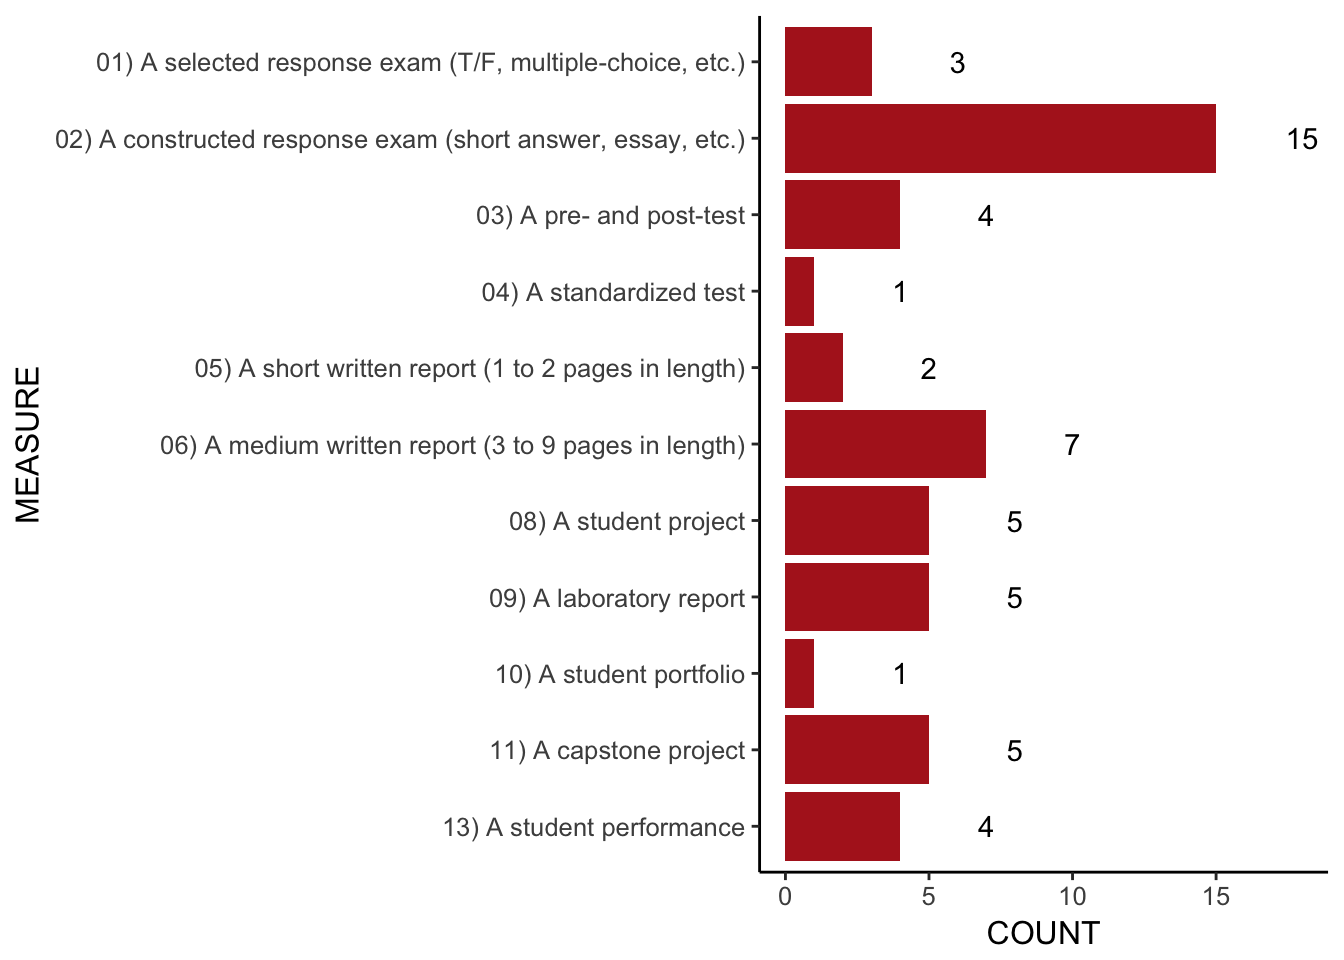
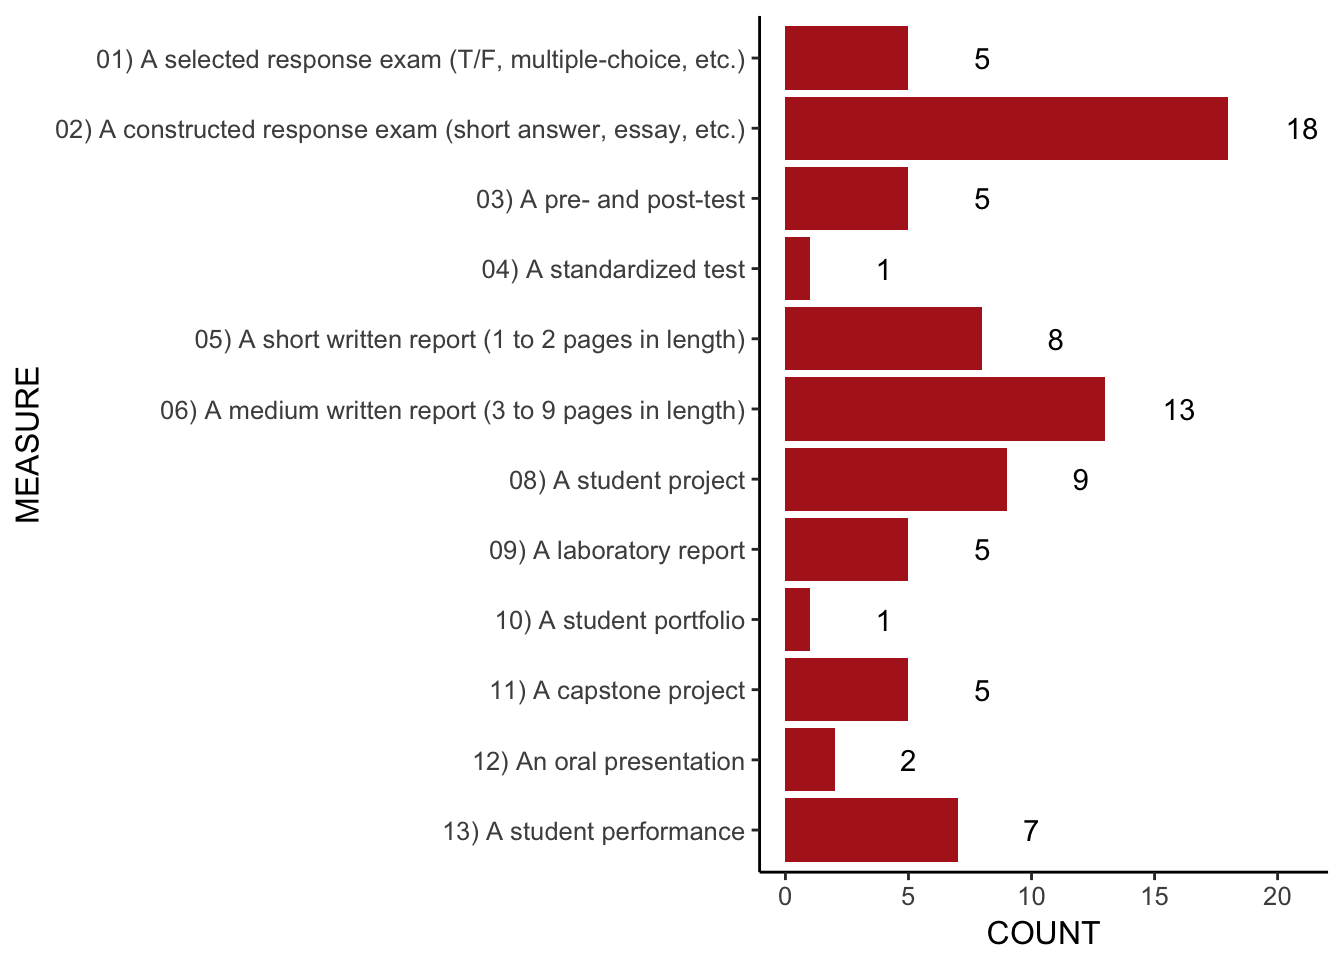
New build, set split-by to none

diff --git a/docs/Report-1801.html b/docs/Report-1801.html
@@ -32,8 +32,8 @@
   <meta name="apple-mobile-web-app-status-bar-style" content="black">
   
   
-<link rel="prev" href="introduction.html">
-<link rel="next" href="results.html">
+
+
 <script src="libs/jquery-2.2.3/jquery.min.js"></script>
 <link href="libs/gitbook-2.6.7/css/style.css" rel="stylesheet" />
 <link href="libs/gitbook-2.6.7/css/plugin-bookdown.css" rel="stylesheet" />
@@ -66,20 +66,20 @@
 <li><a href="http://www.ferris.edu/HTMLS/academics/general-education/evidence/repository.htm" target="blank"><img src="art/logo2.png" align="center" hspace="15" vspace="5"/></a></li>
 
 <li class="divider"></li>
-<li class="chapter" data-level="" data-path="index.html"><a href="index.html"><i class="fa fa-check"></i>Abstract</a></li>
-<li class="chapter" data-level="" data-path="introduction.html"><a href="introduction.html"><i class="fa fa-check"></i>Introduction</a></li>
-<li class="chapter" data-level="" data-path="methods.html"><a href="methods.html"><i class="fa fa-check"></i>Methods</a><ul>
-<li class="chapter" data-level="" data-path="methods.html"><a href="methods.html#data-provenance"><i class="fa fa-check"></i>Data provenance</a><ul>
-<li class="chapter" data-level="" data-path="methods.html"><a href="methods.html#location-of-public-website-files"><i class="fa fa-check"></i>Location of public website files</a></li>
-<li class="chapter" data-level="" data-path="methods.html"><a href="methods.html#session-information"><i class="fa fa-check"></i>Session information</a></li>
-<li class="chapter" data-level="" data-path="methods.html"><a href="methods.html#processing-instructions"><i class="fa fa-check"></i>Processing instructions</a></li>
-<li class="chapter" data-level="" data-path="methods.html"><a href="methods.html#citation-of-this-work"><i class="fa fa-check"></i>Citation of this work</a></li>
+<li class="chapter" data-level="" data-path=""><a href="#abstract"><i class="fa fa-check"></i>Abstract</a></li>
+<li class="chapter" data-level="" data-path=""><a href="#introduction"><i class="fa fa-check"></i>Introduction</a></li>
+<li class="chapter" data-level="" data-path=""><a href="#methods"><i class="fa fa-check"></i>Methods</a><ul>
+<li class="chapter" data-level="" data-path=""><a href="#data-provenance"><i class="fa fa-check"></i>Data provenance</a><ul>
+<li class="chapter" data-level="" data-path=""><a href="#location-of-public-website-files"><i class="fa fa-check"></i>Location of public website files</a></li>
+<li class="chapter" data-level="" data-path=""><a href="#session-information"><i class="fa fa-check"></i>Session information</a></li>
+<li class="chapter" data-level="" data-path=""><a href="#processing-instructions"><i class="fa fa-check"></i>Processing instructions</a></li>
+<li class="chapter" data-level="" data-path=""><a href="#citation-of-this-work"><i class="fa fa-check"></i>Citation of this work</a></li>
 </ul></li>
-<li class="chapter" data-level="" data-path="methods.html"><a href="methods.html#googlesheets"><i class="fa fa-check"></i>Retrieving the registration data</a></li>
-<li class="chapter" data-level="" data-path="methods.html"><a href="methods.html#data"><i class="fa fa-check"></i>Data collection</a></li>
+<li class="chapter" data-level="" data-path=""><a href="#googlesheets"><i class="fa fa-check"></i>Retrieving the registration data</a></li>
+<li class="chapter" data-level="" data-path=""><a href="#data"><i class="fa fa-check"></i>Data collection</a></li>
 </ul></li>
-<li class="chapter" data-level="" data-path="results.html"><a href="results.html"><i class="fa fa-check"></i>Results and Discussion</a></li>
-<li class="chapter" data-level="" data-path="references.html"><a href="references.html"><i class="fa fa-check"></i>References</a></li>
+<li class="chapter" data-level="" data-path=""><a href="#results"><i class="fa fa-check"></i>Results and Discussion</a></li>
+<li class="chapter" data-level="" data-path=""><a href="#references"><i class="fa fa-check"></i>References</a></li>
 <li class="divider"></li>
 <li><a href="https://bookdown.org/yihui/bookdown/" target="blank">Published with bookdown</a></li>
 
@@ -100,18 +100,36 @@
           <div class="page-inner">
 
             <section class="normal" id="section-">
+<div id="header">
+<h1 class="title">General Education Course Registrations<a href="#fn1" class="footnoteRef" id="fnref1"><sup>1</sup></a></h1>
+<h3 class="subtitle"><em>An Overview of Registration Patterns for Spring 2018</em></h3>
+<h4 class="author"><em>Dr. Clifton Franklund</em></h4>
+<h4 class="author"><em>General Education Coordinator</em></h4>
+<h4 class="date"><em>Spring 2018</em></h4>
+</div>
+<p>    </p>
+<div id="abstract" class="section level1 unnumbered">
+<h1>Abstract</h1>
+<blockquote>
+<p>“Assessment is not a spreadsheet; it’s a conversation.” — Irmeli Halinen</p>
+</blockquote>
+<p>Lorem ipsum dolor sit amet, consectetur adipiscing elit. Curabitur pellentesque tortor ac turpis congue venenatis. Curabitur congue justo est, non feugiat massa euismod sit amet. Fusce tincidunt, sapien in malesuada tempus, sem mi interdum turpis, in finibus sem nisl sed ex. Mauris in tristique nisl. Nunc pellentesque metus et velit aliquam, eu rhoncus diam condimentum. Quisque nec libero at odio tempor aliquam. Fusce at lacus porttitor, lobortis nisl nec, commodo tellus. Phasellus interdum sapien varius ipsum consectetur tincidunt. Aenean posuere turpis at efficitur lobortis. Lorem ipsum dolor sit amet, consectetur adipiscing elit. Curabitur pellentesque tortor ac turpis congue venenatis. Curabitur congue justo est, non feugiat massa euismod sit amet. Fusce tincidunt, sapien in malesuada tempus, sem mi interdum turpis, in finibus sem nisl sed ex. Mauris in tristique nisl. Nunc pellentesque metus et velit aliquam, eu rhoncus diam condimentum. Quisque nec libero at odio tempor aliquam. Fusce at lacus porttitor, lobortis nisl nec, commodo tellus. Phasellus interdum sapien varius ipsum consectetur tincidunt. Aenean posuere turpis at efficitur lobortis.</p>
+</div>
+<div id="introduction" class="section level1 unnumbered">
+<h1>Introduction</h1>
+</div>
 <div id="methods" class="section level1 unnumbered">
 <h1>Methods</h1>
 <div id="data-provenance" class="section level2 unnumbered">
 <h2>Data provenance</h2>
-<p>Data provenance refers to a system that permits tracking of the origin, movement, modification, and utilization of data sets <span class="citation">(Buneman, Khanna, and Wang-Chiew <a href="references.html#ref-Buneman2001">2001</a>)</span>. The provenance of General Education data will be explicitly declared to facilitate the reproducibility and extensibility of these studies.</p>
+<p>Data provenance refers to a system that permits tracking of the origin, movement, modification, and utilization of data sets <span class="citation">(Buneman, Khanna, and Wang-Chiew <a href="#ref-Buneman2001">2001</a>)</span>. The provenance of General Education data will be explicitly declared to facilitate the reproducibility and extensibility of these studies.</p>
 <div id="location-of-public-website-files" class="section level3 unnumbered">
 <h3>Location of public website files</h3>
-<p>All files related to this report can be found online at the Open Science Framework <span class="citation">(Nosek <a href="references.html#ref-Nosek2012">2012</a>)</span>. This site contains all of the files needed to reproduce this report from the de-identified data set. The site’s url is <a href="https://osf.io/t6u8m/" class="uri">https://osf.io/t6u8m/</a>.</p>
+<p>All files related to this report can be found online at the Open Science Framework <span class="citation">(Nosek <a href="#ref-Nosek2012">2012</a>)</span>. This site contains all of the files needed to reproduce this report from the de-identified data set. The site’s url is <a href="https://osf.io/t6u8m/" class="uri">https://osf.io/t6u8m/</a>.</p>
 </div>
 <div id="session-information" class="section level3 unnumbered">
 <h3>Session information</h3>
-<p>This report was written using RStudio <span class="citation">(RStudio Team <a href="references.html#ref-Rstudio">2015</a>)</span> and the R statistical programming language <span class="citation">(R Core Team <a href="references.html#ref-R">2013</a>)</span>. These products are free to download for PC, Macintosh, and Linux operating systems. The following information pertains to the session parameters used to generate this report. If you have trouble reproducing this report, it may be due to different session parameters. You may contact <a href="mailto:CliftonFranklund@ferris.edu">Dr. Franklund</a> if you need assistance.</p>
+<p>This report was written using RStudio <span class="citation">(RStudio Team <a href="#ref-Rstudio">2015</a>)</span> and the R statistical programming language <span class="citation">(R Core Team <a href="#ref-R">2013</a>)</span>. These products are free to download for PC, Macintosh, and Linux operating systems. The following information pertains to the session parameters used to generate this report. If you have trouble reproducing this report, it may be due to different session parameters. You may contact <a href="mailto:CliftonFranklund@ferris.edu">Dr. Franklund</a> if you need assistance.</p>
 <p><strong>R version 3.4.3 (2017-11-30)</strong></p>
 <p>**<a href="Platform:**" class="uri">Platform:**</a> x86_64-apple-darwin15.6.0 (64-bit)</p>
 <p><strong>locale:</strong> en_US.UTF-8||en_US.UTF-8||en_US.UTF-8||C||en_US.UTF-8||en_US.UTF-8</p>
@@ -143,6 +161,59 @@
 <p>All registration records for the fall of 2017 were collated and de-identified. The data file, ‘registrations.csv’, contains only the course name (e.g. BIOL 101), the core competency (e.g. Natural Sciences), and the standardized measure (e.g. Selected Response Exam). The datafile is <a href="data/registrations.csv">available here</a>.</p>
 </div>
 </div>
+<div id="results" class="section level1 unnumbered">
+<h1>Results and Discussion</h1>
+<p>A total of 79 registrations have been completed as of March 14, 2018. This includes a total of 63 different courses. The distribution of the registrations between the eight core competencies is shown in figure <a href="#fig:plotByCompetency">1</a>.</p>
+<div class="figure"><span id="fig:plotByCompetency"></span>
+<img src="Report-1801_files/figure-html/plotByCompetency-1.png" alt="Distribution of course registrations by core competency." width="672" />
+<p class="caption">
+Figure 1: Distribution of course registrations by core competency.
+</p>
+</div>
+<ul>
+<li>A total of 29 exams were registered (36.7%).<br />
+</li>
+<li>A total of 41 student products were registered (51.9%).<br />
+</li>
+<li>A total of 9 student performances were registered (11.4%).</li>
+</ul>
+<div class="figure"><span id="fig:plotByMeasure"></span>
+<img src="Report-1801_files/figure-html/plotByMeasure-1.png" alt="Distribution of course registrations by standardized measure." width="672" />
+<p class="caption">
+Figure 2: Distribution of course registrations by standardized measure.
+</p>
+</div>
+<div class="question">
+<p>
+Do you think that there are too many exams in this mix? What is the desired balance between exams, products, and performances for General Education?
+</p>
+</div>
+
+</div>
+<div id="references" class="section level1 unnumbered">
+<h1>References</h1>
+
+<div id="refs" class="references">
+<div id="ref-Buneman2001">
+<p>Buneman, Peter, Sanjeev Khanna, and Tan Wang-Chiew. 2001. “Why and Where: A Characterization of Data Provenance.” In <em>Database Theory — Icdt 2001 8th Int. Conf. London, Uk, January 4–6, 2001 Proc.</em>, edited by Jan den Bussche and Victor Vianu, 316–30. Berlin, Heidelberg: Springer Berlin Heidelberg. doi:<a href="https://doi.org/10.1007/3-540-44503-X_20">10.1007/3-540-44503-X_20</a>.</p>
+</div>
+<div id="ref-Nosek2012">
+<p>Nosek, Brian. 2012. “An Open, Large-Scale, Collaborative Effort to Estimate the Reproducibility of Psychological Science.” <em>Perspect. Psychol. Sci.</em> 7 (6). SAGE Publications: 657–60. doi:<a href="https://doi.org/10.1177/1745691612462588">10.1177/1745691612462588</a>.</p>
+</div>
+<div id="ref-R">
+<p>R Core Team. 2013. <em>R: A Language and Environment for Statistical Computing</em>. Vienna, Austria: R Foundation for Statistical Computing. <a href="http://www.r-project.org/" class="uri">http://www.r-project.org/</a>.</p>
+</div>
+<div id="ref-Rstudio">
+<p>RStudio Team. 2015. <em>RStudio: Integrated Development Environment for R</em>. Boston, MA: RStudio, Inc. <a href="http://www.rstudio.com/" class="uri">http://www.rstudio.com/</a>.</p>
+</div>
+</div>
+</div>
+<div class="footnotes">
+<hr />
+<ol>
+<li id="fn1"><p>Report number 1801, DOI <a href="https://doi.org/10.17605/OSF.IO/MRJBD">10.17605/OSF.IO/MRJBD</a><a href="#fnref1">↩</a></p></li>
+</ol>
+</div>
 <div id="disqus_thread"></div>
 <script>
 
@@ -168,8 +239,8 @@ s.setAttribute('data-timestamp', +new Date());
           </div>
         </div>
       </div>
-<a href="introduction.html" class="navigation navigation-prev " aria-label="Previous page"><i class="fa fa-angle-left"></i></a>
-<a href="results.html" class="navigation navigation-next " aria-label="Next page"><i class="fa fa-angle-right"></i></a>
+
+
     </div>
   </div>
 <script src="libs/gitbook-2.6.7/js/app.min.js"></script>
@@ -199,7 +270,7 @@ gitbook.start({
 "size": 2
 },
 "edit": {
-"link": "https://github.com/WeeBeasties/1801/blob/master/index.Rmd",
+"link": "https://github.com/WeeBeasties/1801/blob/master/%s",
 "text": "Edit"
 },
 "download": ["Report-1801.pdf"],

diff --git a/docs/results.html b/docs/results.html
@@ -78,9 +78,7 @@
 <li class="chapter" data-level="" data-path="methods.html"><a href="methods.html#googlesheets"><i class="fa fa-check"></i>Retrieving the registration data</a></li>
 <li class="chapter" data-level="" data-path="methods.html"><a href="methods.html#data"><i class="fa fa-check"></i>Data collection</a></li>
 </ul></li>
-<li class="chapter" data-level="" data-path="results.html"><a href="results.html"><i class="fa fa-check"></i>Results and Discussion</a><ul>
-<li class="chapter" data-level="0.1" data-path="results.html"><a href="results.html#shiny-app"><i class="fa fa-check"></i><b>0.1</b> Shiny app</a></li>
-</ul></li>
+<li class="chapter" data-level="" data-path="results.html"><a href="results.html"><i class="fa fa-check"></i>Results and Discussion</a></li>
 <li class="chapter" data-level="" data-path="references.html"><a href="references.html"><i class="fa fa-check"></i>References</a></li>
 <li class="divider"></li>
 <li><a href="https://bookdown.org/yihui/bookdown/" target="blank">Published with bookdown</a></li>
@@ -104,7 +102,7 @@
             <section class="normal" id="section-">
 <div id="results" class="section level1 unnumbered">
 <h1>Results and Discussion</h1>
-<p>A total of 52 registrations have been completed as of February 23, 2018. This includes a total of 44 different courses. The distribution of the registrations between the eight core competencies is shown in figure <a href="results.html#fig:plotByCompetency">1</a>.</p>
+<p>A total of 79 registrations have been completed as of March 14, 2018. This includes a total of 63 different courses. The distribution of the registrations between the eight core competencies is shown in figure <a href="results.html#fig:plotByCompetency">1</a>.</p>
 <div class="figure"><span id="fig:plotByCompetency"></span>
 <img src="Report-1801_files/figure-html/plotByCompetency-1.png" alt="Distribution of course registrations by core competency." width="672" />
 <p class="caption">
@@ -112,11 +110,11 @@ Figure 1: Distribution of course registrations by core competency.
 </p>
 </div>
 <ul>
-<li>A total of 23 exams were registered (44.2%).<br />
+<li>A total of 29 exams were registered (36.7%).<br />
 </li>
-<li>A total of 25 student products were registered (48.1%).<br />
+<li>A total of 41 student products were registered (51.9%).<br />
 </li>
-<li>A total of 4 student performances were registered (7.7%).</li>
+<li>A total of 9 student performances were registered (11.4%).</li>
 </ul>
 <div class="figure"><span id="fig:plotByMeasure"></span>
 <img src="Report-1801_files/figure-html/plotByMeasure-1.png" alt="Distribution of course registrations by standardized measure." width="672" />
@@ -129,13 +127,7 @@ Figure 2: Distribution of course registrations by standardized measure.
 Do you think that there are too many exams in this mix? What is the desired balance between exams, products, and performances for General Education?
 </p>
 </div>
-<div id="shiny-app" class="section level2">
-<h2><span class="header-section-number">0.1</span> Shiny app</h2>
-<p>Here, I am attempting to embed a shiny app into this bookdown document.</p>
-<iframe src="https://www.cliftonfranklund.com/shiny/Dashboard/?showcase=0" width="100%" height="500px">
-</iframe>
 
-</div>
 </div>
 <div id="disqus_thread"></div>
 <script>

diff --git a/docs/index.html b/docs/index.html
@@ -78,9 +78,7 @@
 <li class="chapter" data-level="" data-path="methods.html"><a href="methods.html#googlesheets"><i class="fa fa-check"></i>Retrieving the registration data</a></li>
 <li class="chapter" data-level="" data-path="methods.html"><a href="methods.html#data"><i class="fa fa-check"></i>Data collection</a></li>
 </ul></li>
-<li class="chapter" data-level="" data-path="results.html"><a href="results.html"><i class="fa fa-check"></i>Results and Discussion</a><ul>
-<li class="chapter" data-level="0.1" data-path="results.html"><a href="results.html#shiny-app"><i class="fa fa-check"></i><b>0.1</b> Shiny app</a></li>
-</ul></li>
+<li class="chapter" data-level="" data-path="results.html"><a href="results.html"><i class="fa fa-check"></i>Results and Discussion</a></li>
 <li class="chapter" data-level="" data-path="references.html"><a href="references.html"><i class="fa fa-check"></i>References</a></li>
 <li class="divider"></li>
 <li><a href="https://bookdown.org/yihui/bookdown/" target="blank">Published with bookdown</a></li>

diff --git a/docs/introduction.html b/docs/introduction.html
@@ -78,9 +78,7 @@
 <li class="chapter" data-level="" data-path="methods.html"><a href="methods.html#googlesheets"><i class="fa fa-check"></i>Retrieving the registration data</a></li>
 <li class="chapter" data-level="" data-path="methods.html"><a href="methods.html#data"><i class="fa fa-check"></i>Data collection</a></li>
 </ul></li>
-<li class="chapter" data-level="" data-path="results.html"><a href="results.html"><i class="fa fa-check"></i>Results and Discussion</a><ul>
-<li class="chapter" data-level="0.1" data-path="results.html"><a href="results.html#shiny-app"><i class="fa fa-check"></i><b>0.1</b> Shiny app</a></li>
-</ul></li>
+<li class="chapter" data-level="" data-path="results.html"><a href="results.html"><i class="fa fa-check"></i>Results and Discussion</a></li>
 <li class="chapter" data-level="" data-path="references.html"><a href="references.html"><i class="fa fa-check"></i>References</a></li>
 <li class="divider"></li>
 <li><a href="https://bookdown.org/yihui/bookdown/" target="blank">Published with bookdown</a></li>

diff --git a/docs/references.html b/docs/references.html
@@ -78,9 +78,7 @@
 <li class="chapter" data-level="" data-path="methods.html"><a href="methods.html#googlesheets"><i class="fa fa-check"></i>Retrieving the registration data</a></li>
 <li class="chapter" data-level="" data-path="methods.html"><a href="methods.html#data"><i class="fa fa-check"></i>Data collection</a></li>
 </ul></li>
-<li class="chapter" data-level="" data-path="results.html"><a href="results.html"><i class="fa fa-check"></i>Results and Discussion</a><ul>
-<li class="chapter" data-level="0.1" data-path="results.html"><a href="results.html#shiny-app"><i class="fa fa-check"></i><b>0.1</b> Shiny app</a></li>
-</ul></li>
+<li class="chapter" data-level="" data-path="results.html"><a href="results.html"><i class="fa fa-check"></i>Results and Discussion</a></li>
 <li class="chapter" data-level="" data-path="references.html"><a href="references.html"><i class="fa fa-check"></i>References</a></li>
 <li class="divider"></li>
 <li><a href="https://bookdown.org/yihui/bookdown/" target="blank">Published with bookdown</a></li>
